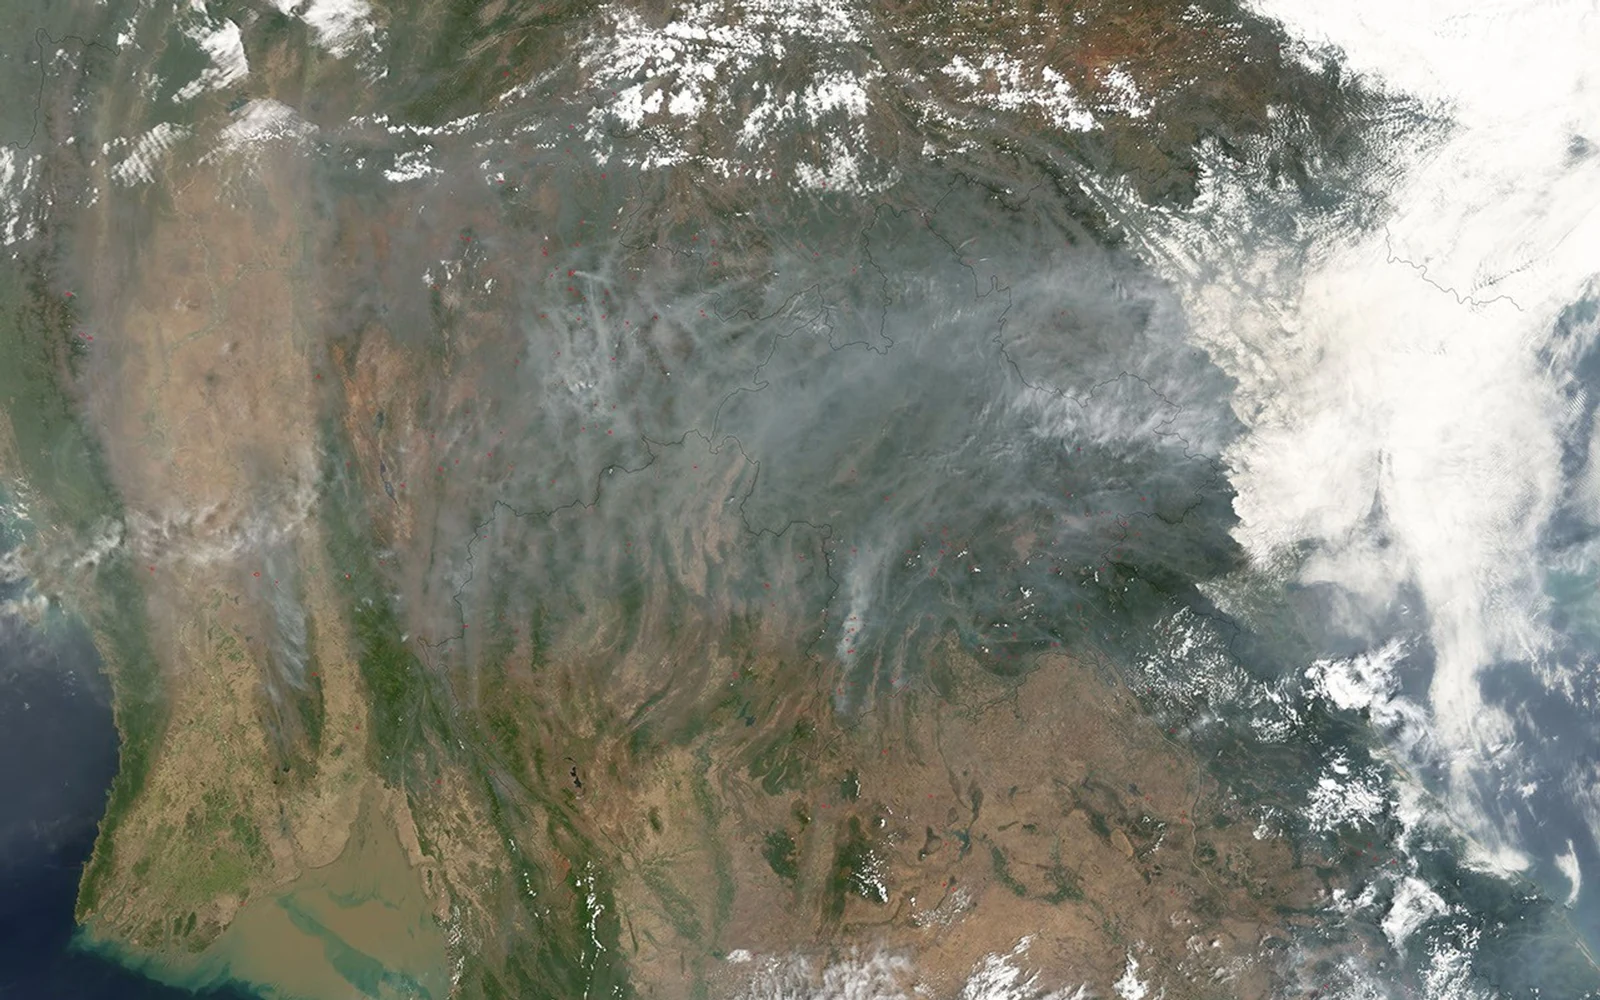
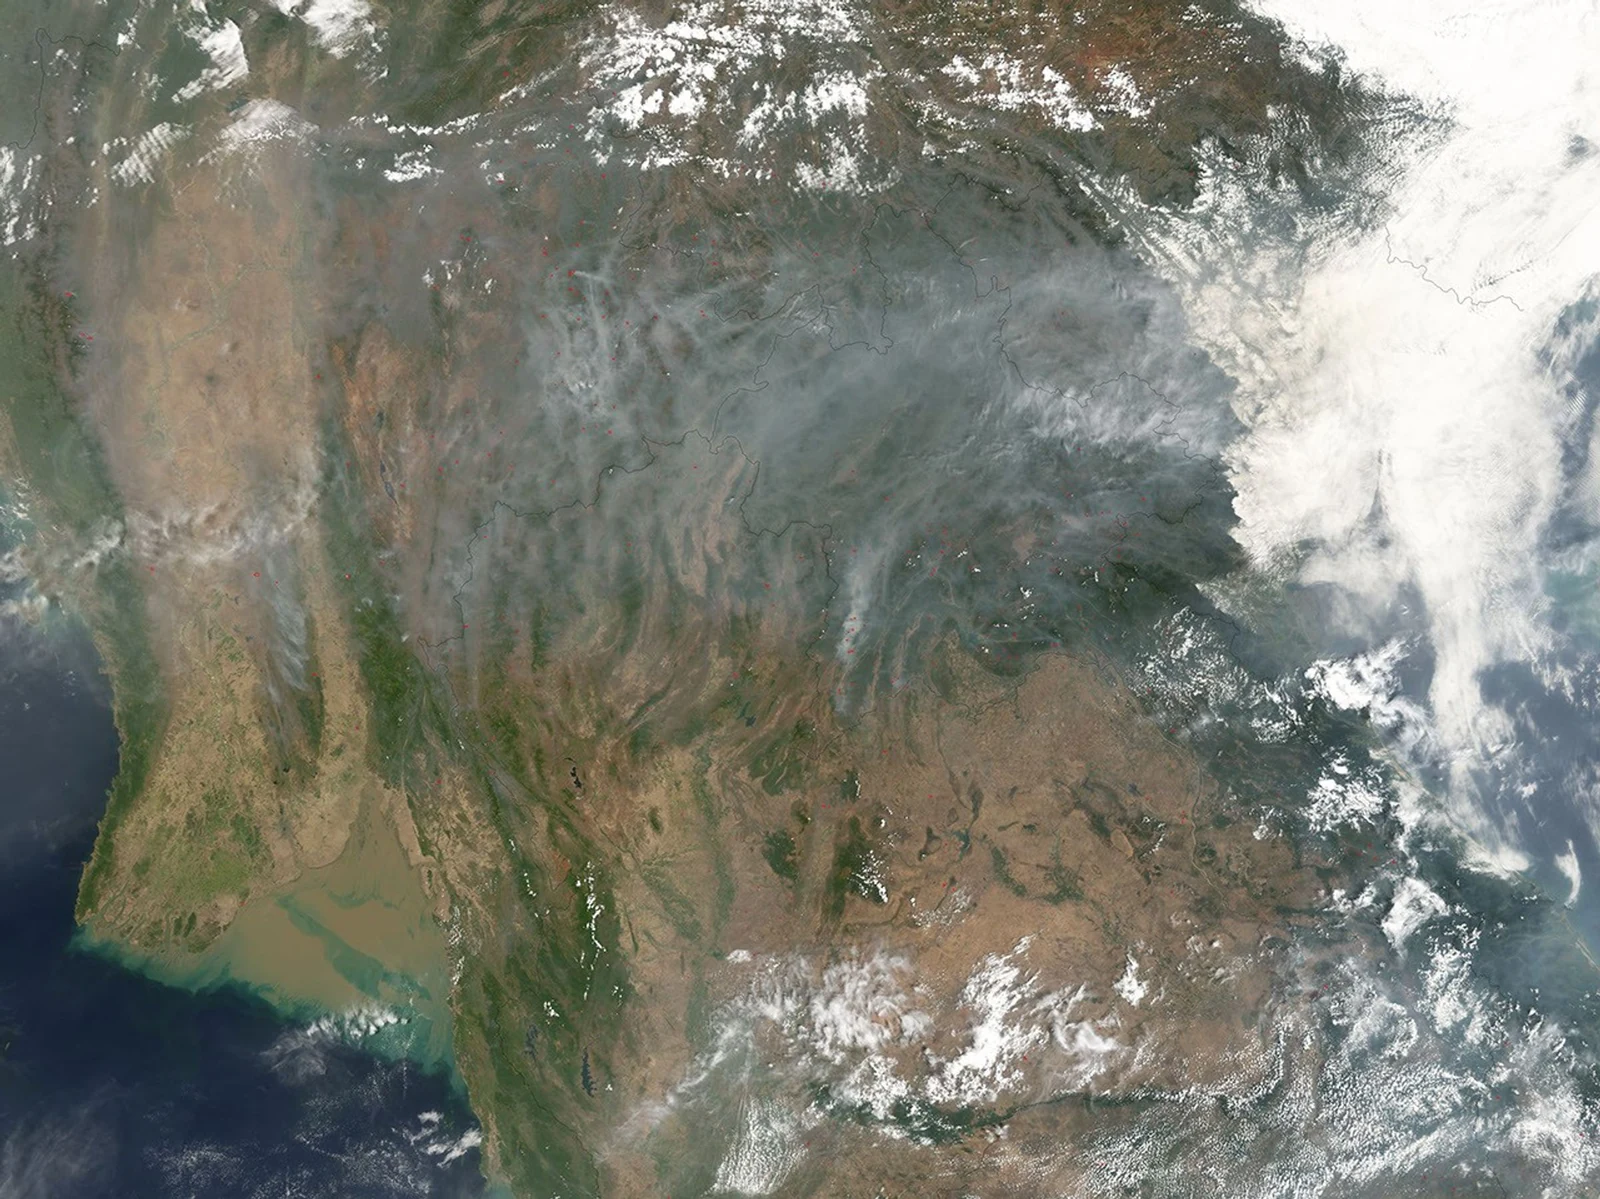
Show complete PM2.5 case study images

diff --git a/docs/presentation/day1_geos_training.html b/docs/presentation/day1_geos_training.html
@@ -488,12 +488,11 @@
     .scale-insight strong { display: block; font-size: 15px; }
     .scale-insight span { display: block; margin-top: 5px; color: var(--muted); font-size: 12px; line-height: 1.4; }
     .pm-case-gallery { display: grid; grid-template-columns: 1fr 1fr; gap: 16px; margin-top: 28px; }
-    .pm-case { position: relative; min-height: 258px; margin: 0; overflow: hidden; border-radius: 8px; background: #1b2429; box-shadow: 0 18px 42px rgba(29,29,31,.12); }
-    .pm-case img { position: absolute; inset: 0; width: 100%; height: 100%; object-fit: cover; }
-    .pm-case::after { content: ""; position: absolute; inset: 42% 0 0; background: linear-gradient(transparent,rgba(5,11,16,.88)); }
-    .pm-case figcaption { position: absolute; z-index: 1; right: 20px; bottom: 17px; left: 20px; color: white; }
-    .pm-case figcaption strong { display: block; font-size: 20px; line-height: 1.15; }
-    .pm-case figcaption span { display: block; margin-top: 5px; color: rgba(255,255,255,.78); font-size: 10px; line-height: 1.35; }
+    .pm-case { margin: 0; overflow: hidden; border: 1px solid var(--line); border-radius: 8px; background: white; box-shadow: 0 18px 42px rgba(29,29,31,.12); }
+    .pm-case img { display: block; width: 100%; aspect-ratio: 8 / 5; object-fit: contain; background: #10171b; }
+    .pm-case figcaption { min-height: 72px; padding: 13px 16px 14px; color: var(--ink); border-top: 1px solid var(--line); }
+    .pm-case figcaption strong { display: block; font-size: 16px; line-height: 1.2; }
+    .pm-case figcaption span { display: block; margin-top: 5px; color: var(--muted); font-size: 10px; line-height: 1.35; }
     .pm-pathway { display: grid; grid-template-columns: repeat(4,1fr); margin-top: 24px; border-top: 1px solid var(--ink); border-bottom: 1px solid var(--ink); }
     .pm-pathway-step { min-height: 158px; padding: 20px 24px; border-right: 1px solid var(--line); }
     .pm-pathway-step:last-child { border-right: 0; }
@@ -809,7 +808,7 @@
       .pm-scale-layout { grid-template-columns: 1fr; }
       .pm-scale-number { font-size: 108px; }
       .pm-case-gallery, .pm-pathway { grid-template-columns: 1fr; }
-      .pm-case { min-height: 240px; }
+      .pm-case { min-height: 0; }
       .pm-pathway-step, .pm-pathway-step:nth-child(2) { min-height: auto; border-right: 0; border-bottom: 1px solid var(--line); }
       .pm-pathway-step:last-child { border-bottom: 0; }
       .health-visual { min-height: 580px; }

diff --git a/CHANGELOG.md b/CHANGELOG.md
@@ -1,5 +1,11 @@
 # Changelog
 
+## 2026.09.9
+
+- Preserve the complete NASA smoke/haze and dust scenes in the PM2.5 case-study
+  gallery instead of cropping them to wide frames.
+- Move case captions below the imagery so labels no longer obscure the maps.
+
 ## 2026.09.8
 
 - Add a Day 1 slide explaining primary and secondary PM2.5 formation through
